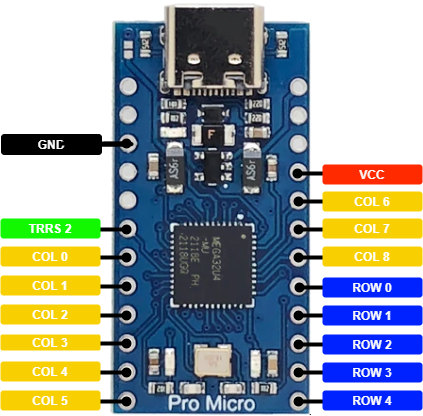
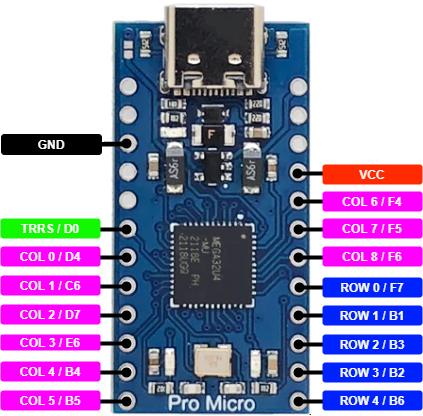
pin update

diff --git a/kbfirmware/README.md b/kbfirmware/README.md
@@ -1,15 +1,17 @@
 # Keyboard Firmware Builder
+
 https://kbfirmware.com/ 사이트에 이 폴더의 json 파일을 올려 주면 선 배열이 출력 됩니다.
 
 ## Left
+
 ![layout](https://github.com/gyuha/my-keyboard/blob/main/kbfirmware/left.png?raw=true)
 
 ## Right
+
 ![layout](https://github.com/gyuha/my-keyboard/blob/main/kbfirmware/right.png?raw=true)
 
 ## Pin
-![layout](https://github.com/gyuha/my-keyboard/blob/main/kbfirmware/pin.png?raw=true)
 
+![pro micro pin](https://user-images.githubusercontent.com/91782246/135756721-60a5d858-9b95-4c4b-9dd7-ec2c003c7c5b.jpeg)
 
-
-
+![pin](https://github.com/gyuha/my-keyboard/blob/main/kbfirmware/pin.png?raw=true)
